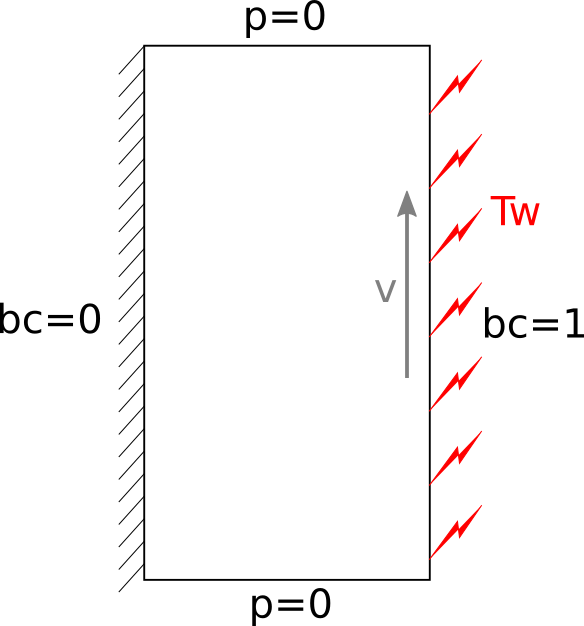
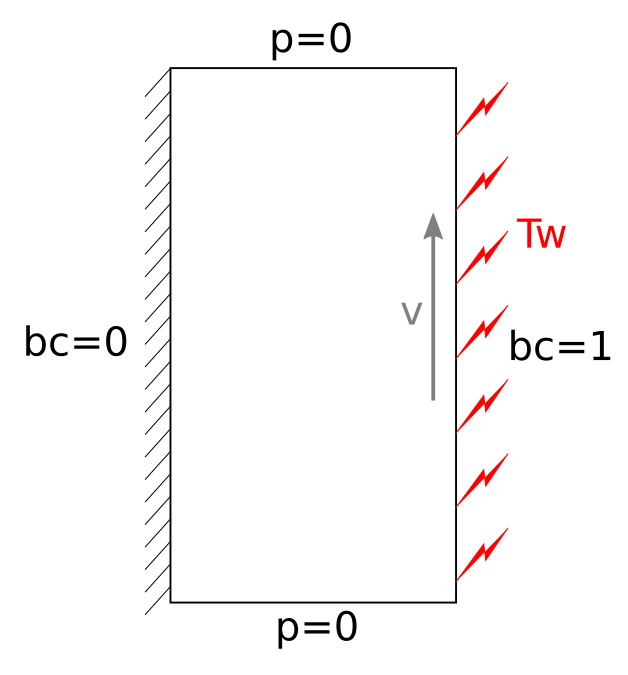
Change image + small fixes

diff --git a/doc/source/examples/multiphysics/warming-up-a-viscous-fluid/warming-up-a-viscous-fluid.rst b/doc/source/examples/multiphysics/warming-up-a-viscous-fluid/warming-up-a-viscous-fluid.rst
@@ -8,13 +8,14 @@ The following schematic describes the simulation.
 
 .. image:: images/warming_scheme.png
     :alt: Simulation schematic
+    :height: 10cm
     :align: center
 
 * bc = 0 : no slip and thermal insulation boundary condition
 * bc = 1 : flow in the y-direction (v=2) and heating at Tw
 
-.. warning:: 
-    The whole simulation is carried out in the frame of one-way coupling: the fluid velocity influences the heat generated - through viscous dissipation -, but the heat transfer does not influence the fluid velocity. Moreover, fluid state changes are not considered.
+.. important:: 
+    The whole simulation is carried out in the frame of one-way coupling: the fluid velocity influences the heat generated through viscous dissipation, but the heat transfer does not influence the fluid velocity. Moreover, fluid state changes are not considered.
 
 Parameter file
 --------------
@@ -58,9 +59,11 @@ The fluid's ``physical properties`` are defined in the following subsection, acc
     # Physical Properties
     #---------------------------------------------------
     subsection physical properties
-      set density              = 0.9
-      set kinematic viscosity    = 0.5
-      set thermal conductivity = 0.12
+      subsection fluid 0
+        set density              = 0.9
+        set kinematic viscosity    = 0.5
+        set thermal conductivity = 0.12
+      end
     # water = 1 density, 0.01 viscosity, 0.59 conductivity
     # oil = 0.9 density, 0.5 viscosity, 0.12 conductivity
     end
@@ -68,7 +71,7 @@ The fluid's ``physical properties`` are defined in the following subsection, acc
 .. warning:: 
     If no physical properties are defined, default values (of 1.0) are taken for the simulation.
 
-The ``mesh`` considered is a very basic rectangle, using the ``dealii`` grid type ``hyper_rectangle``, represented the fluid volume considered between the two plates. Here, the width between the two plates is set to ``0,5``.
+The ``mesh`` considered is a very basic rectangle, using the ``dealii`` grid type `hyper_rectangle <https://www.dealii.org/current/doxygen/deal.II/namespaceGridGenerator.html#a56019d263ae45708302d5d7599f0d458>`_, to represent the fluid volume considered between the two plates. Here, the width between the two plates is set to ``0,5``.
 
 .. code-block:: text
 
@@ -98,7 +101,7 @@ The ``multiphysics`` subsection enable to turn on (``true``) and off (``false``)
       set viscous dissipation = true
     end
 
-The` analytical solution` is defined, according to the fluid and simulation properties:
+The ``analytical solution`` is defined, according to the fluid and simulation properties:
 
 .. math::
     T(x) = T_\omega + \frac{\rho \nu v^2}{2K}\left ( 1 - \left ( \frac{x}{B} \right )^2 \right )
@@ -181,30 +184,32 @@ Convergence with regards to the analytical solution on the temperature:
 
 .. image:: images/error_analytical.png
     :alt: Convergence with regards to the analytical solution on the temperature
+    :height: 10cm
     :align: center
 
 Domain with temperature:
 
 .. image:: images/domain_t0.png
     :alt: Domain with temperature (t = 0)
-    :width: 40%
+    :height: 10cm
 
 .. image:: images/domain_t1.png
     :alt: Domain with temperature (t = 1)
-    :width: 40%
+    :height: 10cm
 
 .. image:: images/domain_t2.png
     :alt: Domain with temperature (t = 2)
-    :width: 40%
+    :height: 10cm
 
 .. image:: images/domain_t7.png
     :alt: Domain with temperature (t = 3)
-    :width: 40%
+    :height: 10cm
 
 Temperature evolution over time:
 
 .. image:: images/temperature_over_time.png
     :alt: Temperature evolution over time
+    :height: 15cm
     :align: center
 
 
@@ -238,6 +243,7 @@ As water has a higher thermal conductivity than oil, the temperature becomes qua
 
 .. image:: images/temperature_over_time_water.png
     :alt: Temperature evolution over time
+    :height: 15cm
     :align: center
 
 .. image:: images/domain_t05_water.png
@@ -262,6 +268,7 @@ After the fluid has been heated up by the right plate, the temperature is really
 
 .. image:: images/temperature_over_time_water_nodiss.png
     :alt: Temperature evolution over time
+    :height: 15cm
     :align: center
 
 .. image:: images/domain_t05_water_nodiss.png

diff --git a/doc/source/parameters/cfd/cfd.rst b/doc/source/parameters/cfd/cfd.rst
@@ -25,3 +25,4 @@ General, CFD and Multiphysics
    nitsche
    restart
    dynamic_flow_control
+   help_from_2D_to_2D
